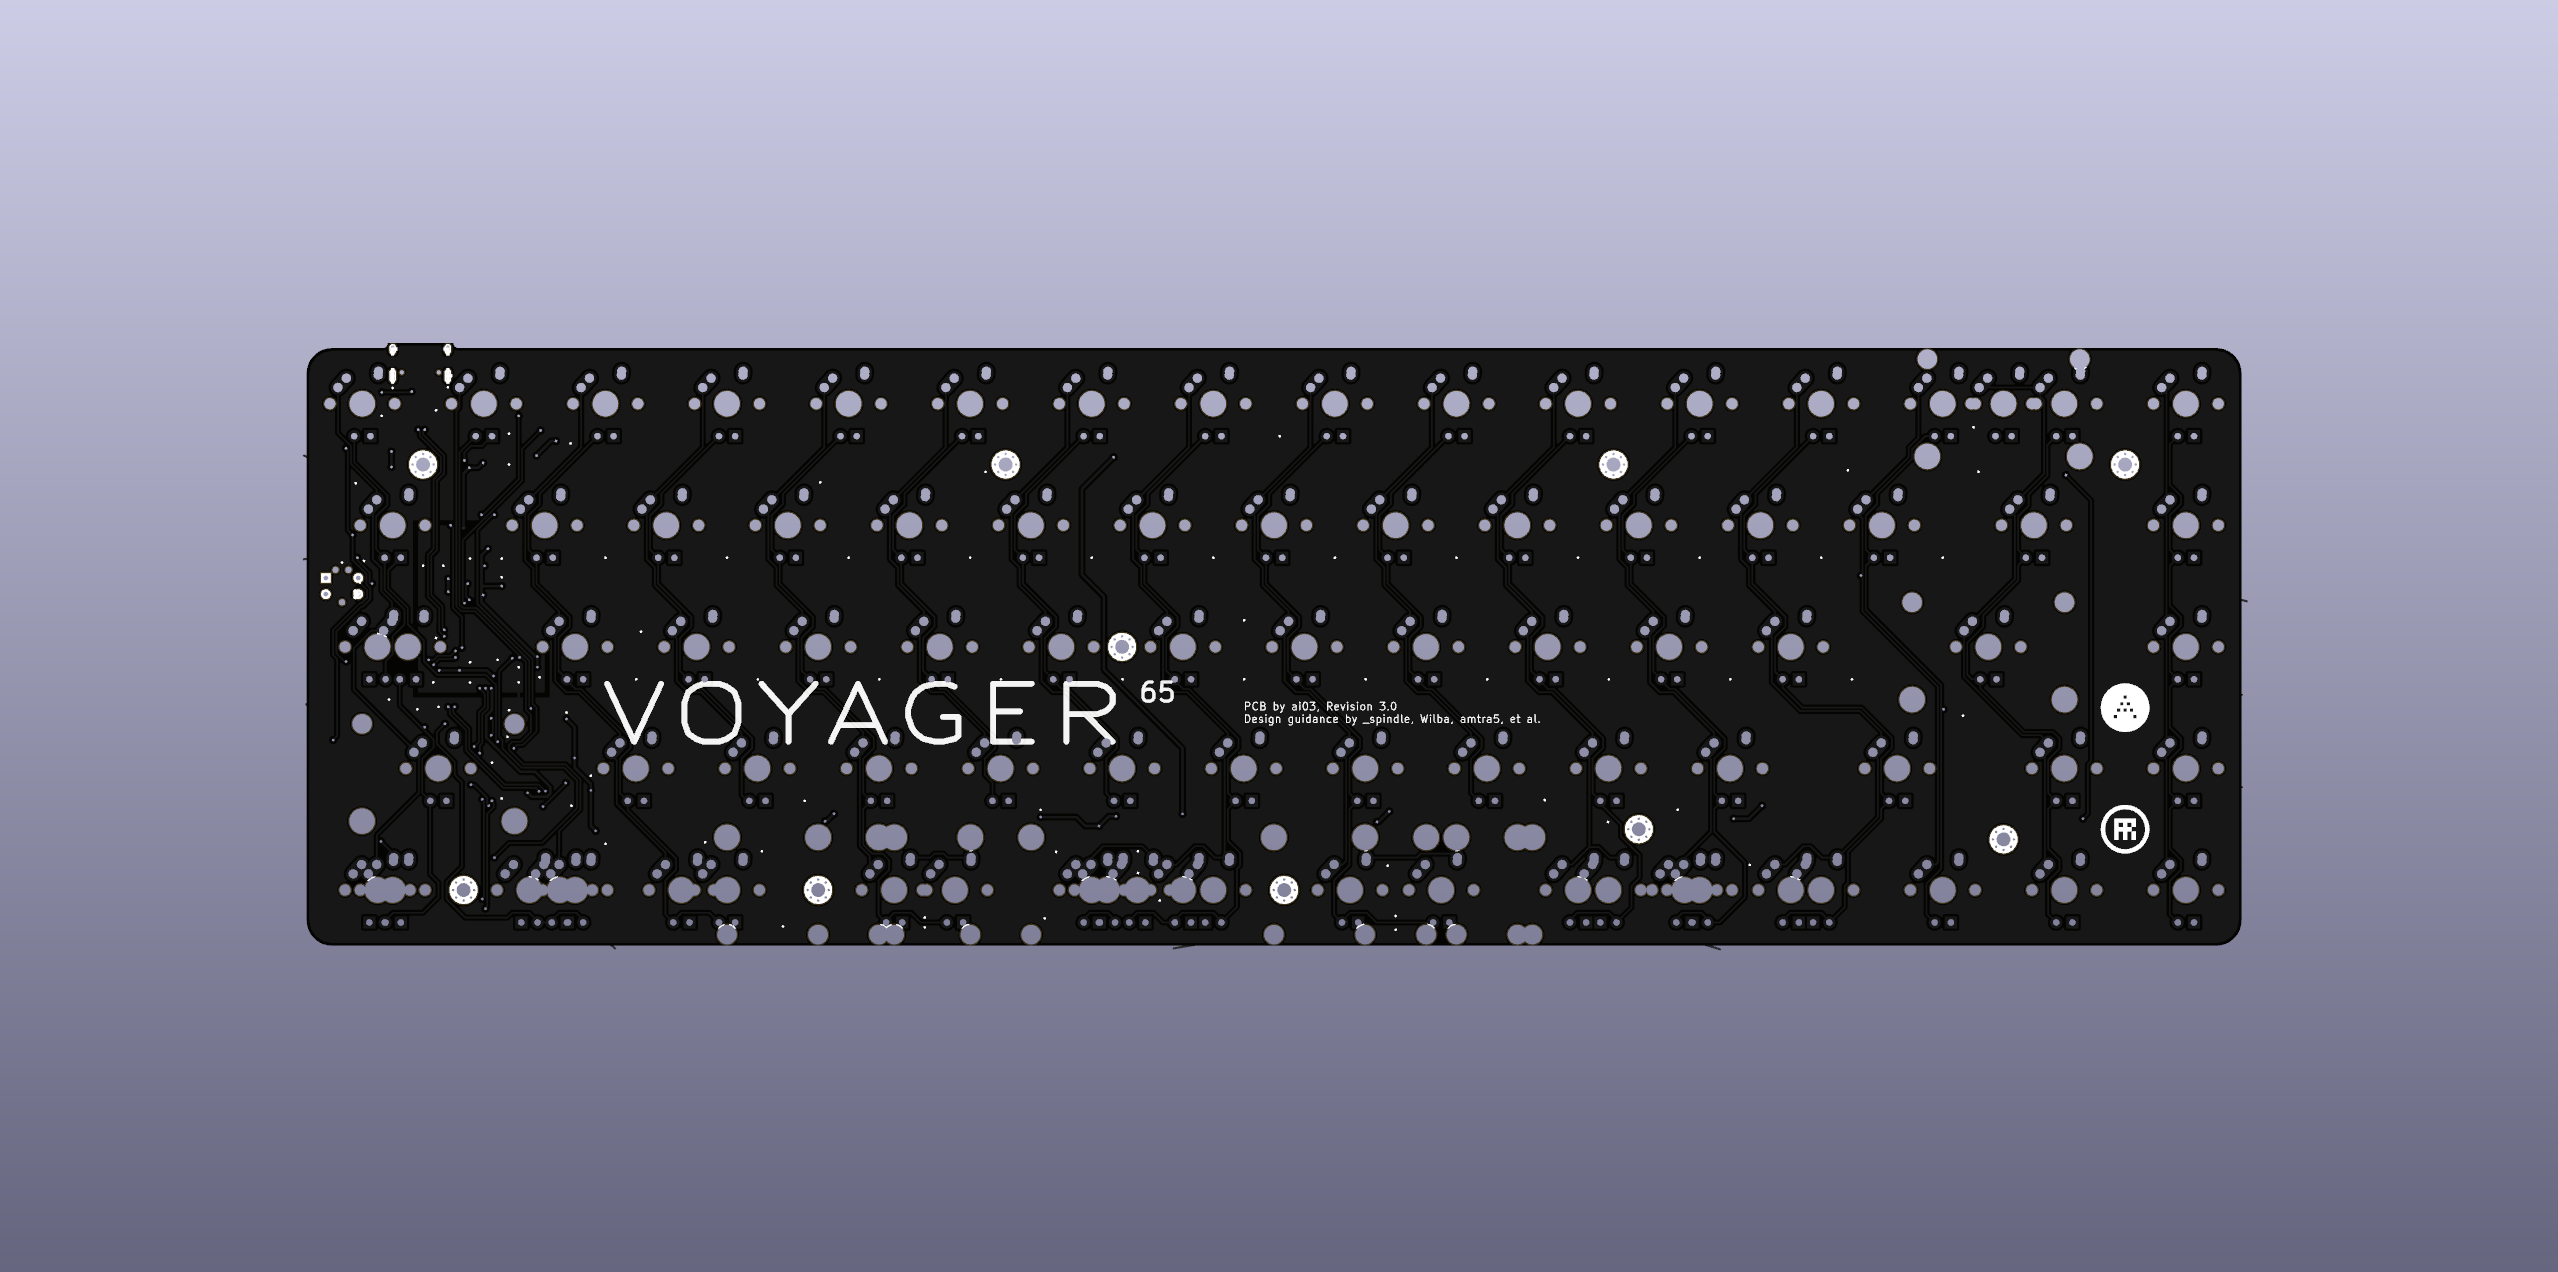
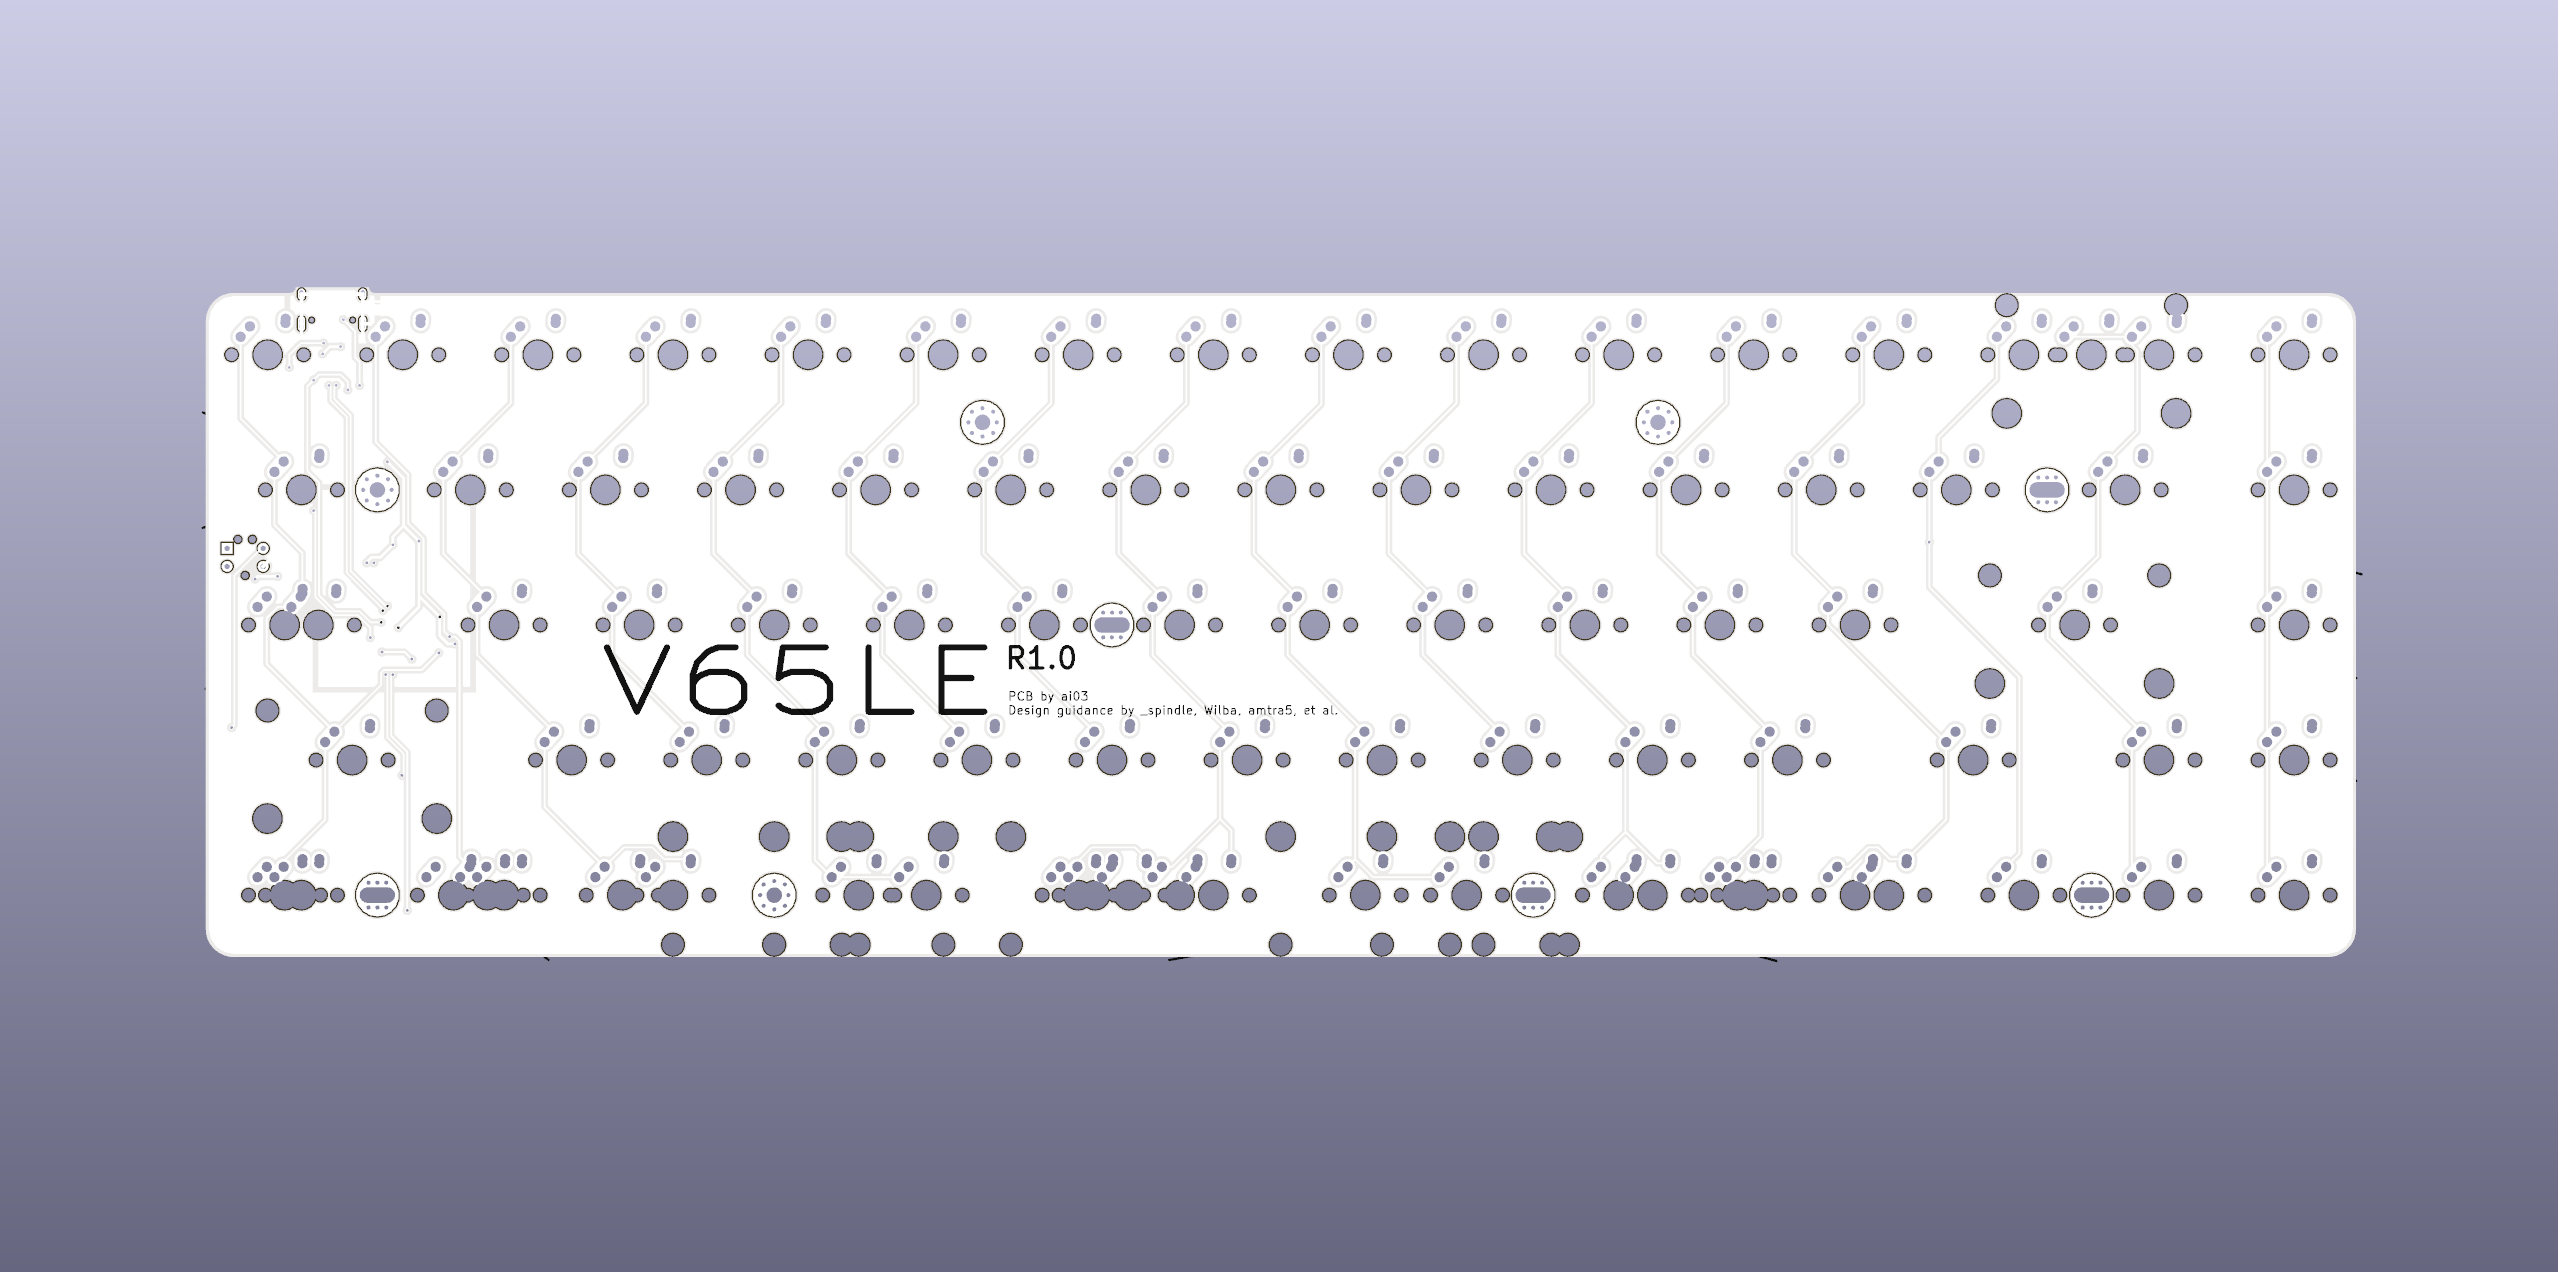
Update info for V65LE

diff --git a/README.md b/README.md
@@ -1,16 +1,21 @@
-# Voyager65
-Cutting-edge 65% keyboard PCB
+# V65LE
+Low-cost 65% keyboard PCB
 
-![Frontside Render](https://raw.githubusercontent.com/ai03-2725/Voyager65/master/Renders/Back.png)
+![Frontside Render](https://github.com/ai03-2725/Voyager65/blob/V65LE/Renders/Back.png)
 [Supported Layouts](http://www.keyboard-layout-editor.com/#/gists/98784f0271c0b4e29edec77185eb883a)
 
 ## Features
-* Full individual-controllable backlighting via ISSI IS31FL3733
 * Atxmega32a4u controller for Keyplus firmware usage
 * Overcurrent and ESD protection, along with physically durable design
 * Type-C USB connector
-* RGB underglow with WS2812B/C chips
 * Easy programming via TC2030-IDC header
 * Alps and MX compatibility
 * **Completely** open-source: All the files you need to make a keyboard with it, design a case/plate for it, or even produce a batch of PCBs for your next GB, are all to be available free.
-* The latest technology, some of which is untested or unstable.
+* Low-cost with LED circuitry removed. Recommended for Alps-only boards.
+
+## Status
+* Prototypes yet to be created.
+
+## Variants
+* [Voyager65](https://github.com/ai03-2725/Voyager65): The main variant of the Voyager65 family. All the cutting edge features.
+* [V65LE](https://github.com/ai03-2725/Voyager65/tree/V65LE): This branch. Low-cost variant.
